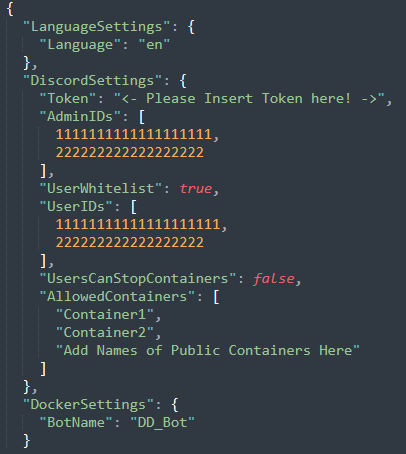
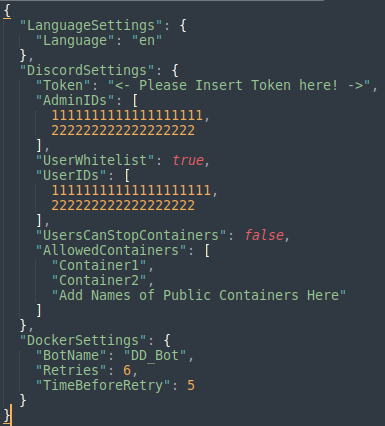
Fix issue #6
- Fixed issue #6 
- Error occured due to large dockers not being able to stop before the check occurred
- Instead of a single check after 5 seconds, there will be multiple checks to see if a DockerCommand has succeeded
- Added two new settings, Retries and TimeBeforeRetry to specify the checks
- Retries specifies the amount of checks before a DockerCommand action is considered to have failed
- TimeBeforeRetry defines the Time between two checks, in seconds
- The Time for those checks will be calculated and shown in the discord message until they have been completed

* Added new Settings for better checks to DockerSettings.cs

* Made DockerService.Setting public to be used by DockerCommand.cs

* Updated DockerCommand.cs to check Status several times before reporting failure

* Update settings.md

* Updated Settings.png for new settings

diff --git a/src/DD_Bot.Application/Commands/DockerCommand.cs b/src/DD_Bot.Application/Commands/DockerCommand.cs
@@ -146,9 +146,49 @@ namespace DD_Bot.Application.Commands
             }
 
             await arg.ModifyOriginalResponseAsync(edit =>
-                edit.Content = "Command has been sent. Awaiting response");
+                edit.Content = "Command has been sent. Awaiting response. This will take up to " + dockerService.Settings.Retries * dockerService.Settings.TimeBeforeRetry + " Seconds.");
+
+            for (int i = 0; i < dockerService.Settings.Retries; i++)
+            {
+                Thread.Sleep(TimeSpan.FromSeconds(dockerService.Settings.TimeBeforeRetry));
+                await dockerService.DockerUpdate();
+                
+                switch (command)
+                {
+                    case "start":
+                        if (dockerService.RunningDockers.Contains(dockerName))
+                        {
+                            await arg.ModifyOriginalResponseAsync(edit => edit.Content = arg.User.Mention+ " " + dockerName + " has been started");
+                            return;
+                        }
+                        else
+                        {
+                            break;
+                        }
+                    case "stop":
+                        if (dockerService.StoppedDockers.Contains(dockerName))
+                        {
+                            await arg.ModifyOriginalResponseAsync(edit => edit.Content = arg.User.Mention + " " + dockerName + " has been stopped");
+                            return;
+                        }
+                        else
+                        {
+                            break;
+                        }
+                    case "restart":
+                        if (dockerService.RunningDockers.Contains(dockerName))
+                        {
+                            await arg.ModifyOriginalResponseAsync(edit => edit.Content = arg.User.Mention + " " + dockerName +  " has been restarted");
+                            return;
+                        }
+                        else
+                        {
+                            break;
+                        }
+                }
+            }
             
-            Thread.Sleep(TimeSpan.FromSeconds(5));
+            
             await dockerService.DockerUpdate();
 
             switch (command)

diff --git a/src/DD_Bot.Application/Services/DockerService.cs b/src/DD_Bot.Application/Services/DockerService.cs
@@ -19,9 +19,8 @@ namespace DD_Bot.Application.Services
         private readonly DockerClient _client = new DockerClientConfiguration(
                 new Uri("unix:///var/run/docker.sock"))
             .CreateClient();
-        
-        private DockerSettings Setting => _configuration.Get<Settings>().DockerSettings;
-        
+
+        public DockerSettings Settings => _configuration.Get<Settings>().DockerSettings;
         public DockerService(IConfigurationRoot configuration) // Initialising
         {
             _configuration = configuration;

diff --git a/src/DD_Bot.Domain/DockerSettings.cs b/src/DD_Bot.Domain/DockerSettings.cs
@@ -3,5 +3,7 @@
     public class DockerSettings 
     {
         public string BotName { get; set; } = "DD_Bot";
+        public int Retries { get; set; } = 6;
+        public int TimeBeforeRetry { get; set; } = 5;
     }
 }

diff --git a/sites/settings.md b/sites/settings.md
@@ -15,3 +15,5 @@
     - AllowedContainers: List of Containers that will be listed and controllable for normal Users. **Case-Sensitive!!** Whitelist still applies
 - DockerSettings
     - BotName: The Name you gave this Container. Prevents shutting down itself
+    - Retries: The Amount of checks that should be performed before a command is considered failed
+    - TimeBeforeRetry: The Time between two checks in seconds
